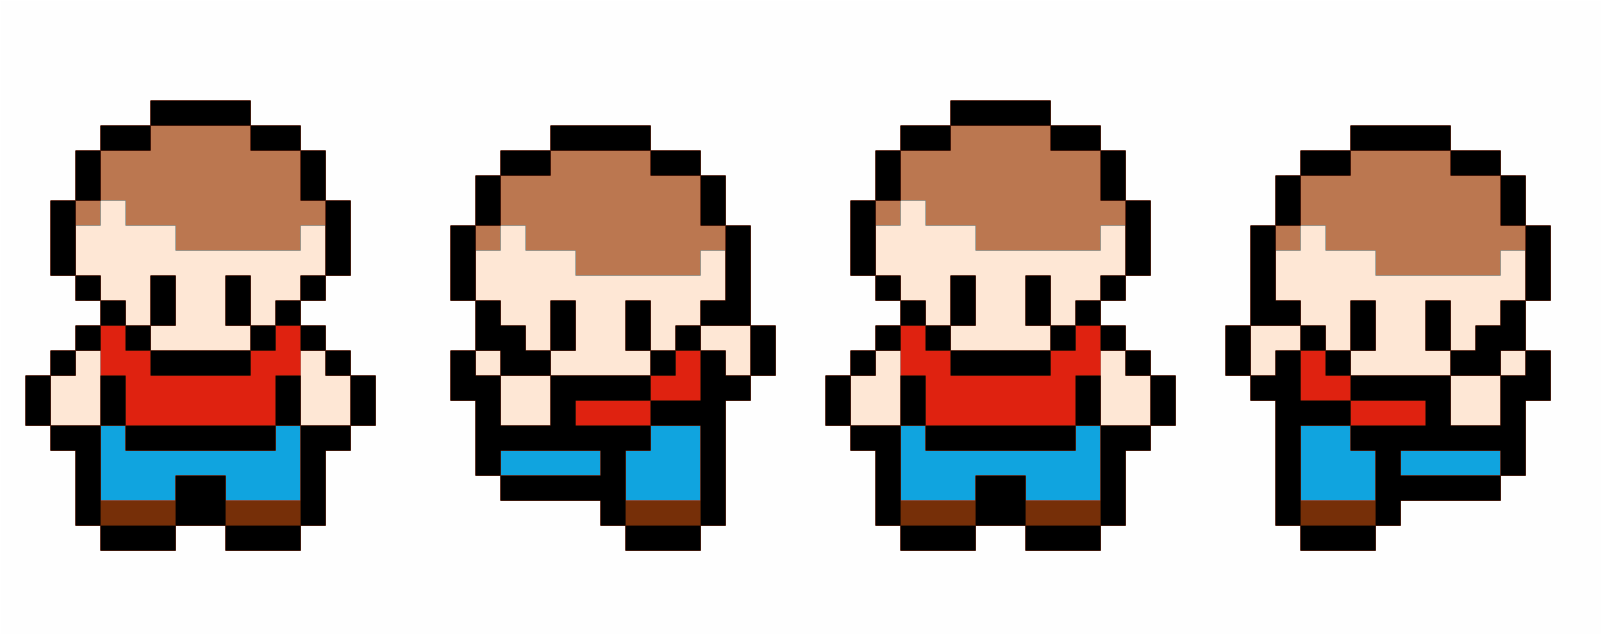
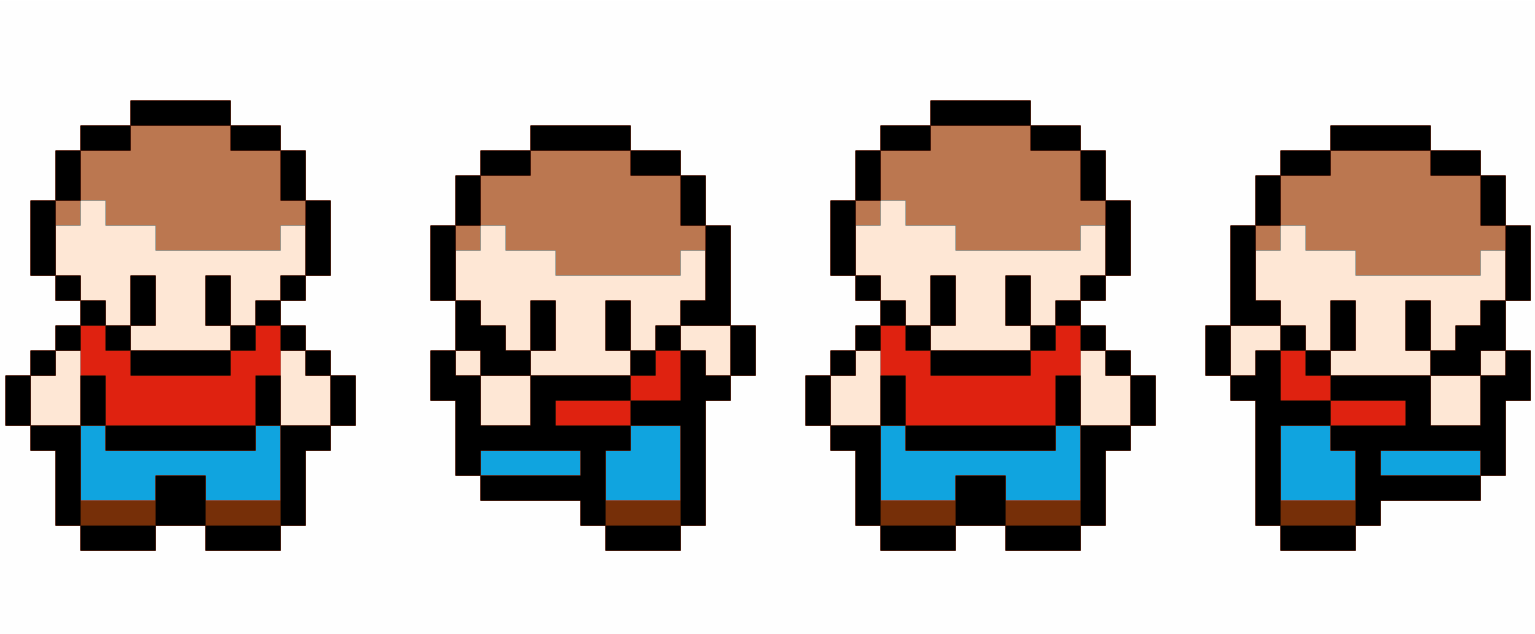
New character up and down movement

diff --git a/characterupanddown.js b/characterupanddown.js
@@ -1,0 +1,43 @@
+class CharacterUpAndDown {
+    constructor(game) {
+        this.game = game;
+        this.animator = new Animator(ASSET_MANAGER.getAsset("./character_up.png"), 18, 0, 380, 648, 4, 0.2);
+        this.au = new Animator(ASSET_MANAGER.getAsset("./character_up.png"), 18, 0, 380, 648, 4, 0.2);
+        this.ad = new Animator(ASSET_MANAGER.getAsset("./character_down.png"), 16, 25, 380, 648, 4, 0.2);
+
+        this.x = 650;
+        this.y = 520;
+        this.animatortype = 0;
+        this.speed = 100;
+    };
+
+    update() {
+        /*this.y -= this.speed*this.game.clockTick;
+        if (this.y < -300) this.y = 768;*/
+        // go up
+        if (this.y === 768 || this.animatortype === 0) {
+            this.y -= this.speed*this.game.clockTick;
+        }
+
+        // set animator to go down
+        if (this.y < 0) {
+            this.animator = this.ad;
+            this.animatortype = 1;
+        }
+
+        // if animator is 1 then go down
+        if (this.animatortype === 1) {
+            this.y += this.speed*this.game.clockTick;
+        }
+
+        // set animator to go up
+        if (this.y > 520) {
+            this.animatortype = 0;
+            this.animator = this.au;
+        }
+    };
+
+    draw(ctx) {
+        this.animator.drawFrame(this.game.clockTick, ctx, this.x, this.y);
+    };
+}

diff --git a/characterlefttoright.js b/characterlefttoright.js
@@ -4,9 +4,10 @@ class CharacterLeftToRight {
         this.animator = new Animator(ASSET_MANAGER.getAsset("./character_right.png"), 30, 0, 380, 648, 4, 0.2);
         this.ar = new Animator(ASSET_MANAGER.getAsset("./character_right.png"), 30, 0, 380, 460, 4, 0.2);
         this.al = new Animator(ASSET_MANAGER.getAsset("./character_left.png"), 30, 0, 380, 460, 4, 0.2);
+
         this.x = 0;
-        this.animatortype = 0;
         this.y = 275;
+        this.animatortype = 0;
         this.speed = 100;
     };
 
@@ -17,12 +18,12 @@ class CharacterLeftToRight {
         }
 
         // set animator to go left
-        if (this.x > 1024 / 3) {
+        if (this.x > 1024 / 4) {
             this.animator = this.al;
             this.animatortype = 1;
         }
 
-        // if animator is left then go left
+        // if animator is 1 then go left
         if (this.animatortype === 1) {
             this.x -= this.speed*this.game.clockTick;
         }

diff --git a/characterleft.js b/characterleft.js
@@ -3,14 +3,14 @@ class CharacterLeft {
         this.game = game;
         this.animator = new Animator(ASSET_MANAGER.getAsset("./character_left.png"), 30, 0, 380, 460, 4, 0.2);
 
-        this.x = 1028 / 3;
+        this.x = 1028 / 4;
         this.y = 1028-485;
         this.speed = 100;
     };
 
     update() {
         this.x -= this.speed*this.game.clockTick;
-        if (this.x < -270) this.x = 1028 / 3;
+        if (this.x < -270) this.x = 1028 / 4;
     };
 
     draw(ctx) {

diff --git a/index.html b/index.html
@@ -15,6 +15,7 @@
     <script type="text/javascript" src="./characterdown.js"></script>
     <script type="text/javascript" src="./characterup.js"></script>
     <script type="text/javascript" src="./characterlefttoright.js"></script>
+    <script type="text/javascript" src="./characterupanddown.js"></script>
     <script type="text/javascript" src="./main.js"></script>
 </head>
 <body>

diff --git a/characterdown.js b/characterdown.js
@@ -1,7 +1,7 @@
 class CharacterDown {
     constructor(game) {
         this.game = game;
-        this.animator = new Animator(ASSET_MANAGER.getAsset("./character_down.png"), 36, 25, 380, 648, 4, 0.2);
+        this.animator = new Animator(ASSET_MANAGER.getAsset("./character_down.png"), 16, 25, 380, 648, 4, 0.2);
 
         this.x = 835;
         this.y = 0;

diff --git a/main.js b/main.js
@@ -16,6 +16,7 @@ ASSET_MANAGER.downloadAll(() => {
 	gameEngine.addEntity(new CharacterDown(gameEngine));
 	gameEngine.addEntity(new CharacterUp(gameEngine));
 	gameEngine.addEntity(new CharacterLeftToRight(gameEngine));
+	gameEngine.addEntity(new CharacterUpAndDown(gameEngine));
 
 	gameEngine.init(ctx);
 

diff --git a/characterright.js b/characterright.js
@@ -10,7 +10,7 @@ class CharacterRight {
 
     update() {
         this.x += this.speed*this.game.clockTick;
-        if (this.x > 1024 / 3) this.x = -220;
+        if (this.x > 1024 / 4) this.x = -220;
     };
 
     draw(ctx) {
